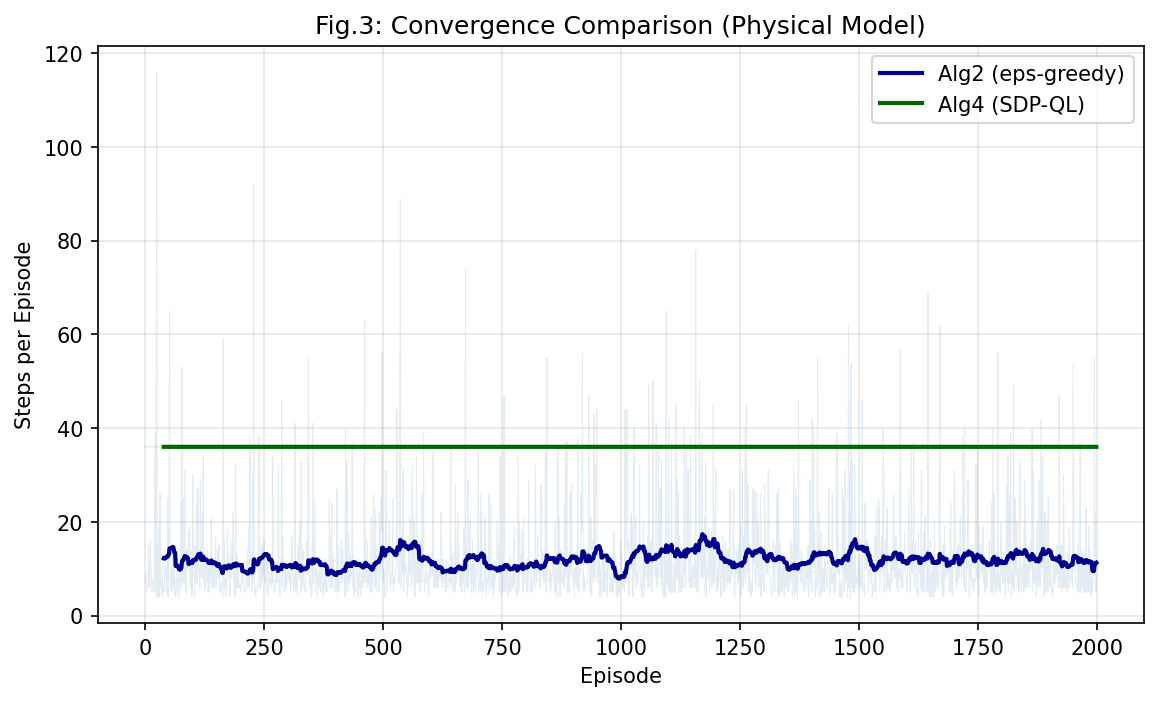
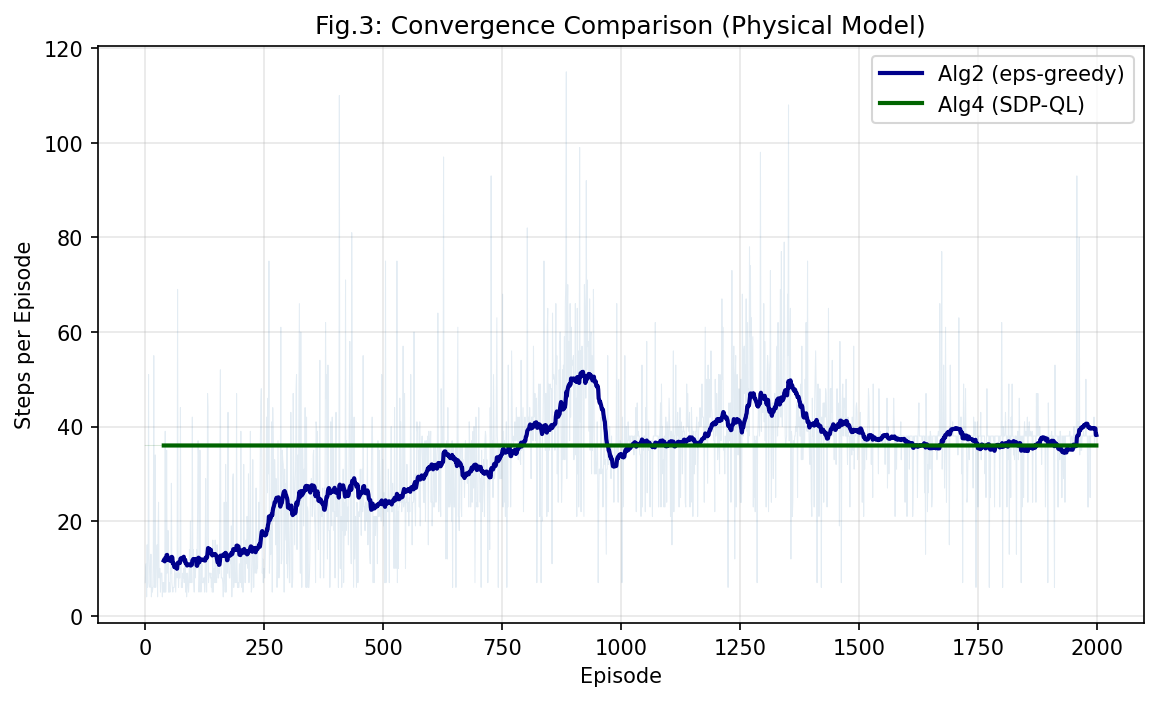
修改了QL+egreedy的探索率策略，起码能到终点了

diff --git a/代码/三种算法/reproduce_main3_physical.py b/代码/三种算法/reproduce_main3_physical.py
@@ -515,14 +515,18 @@ class USVEnvironment:
 
 class QLearningBase:
     def __init__(self, env, alpha=0.3, gamma_start=0.1, gamma_end=0.9,
-                 epsilon=0.9, episodes=5000, step_penalty=0.0, seed=None):
+                 epsilon=0.9, epsilon_decay=0.997, epsilon_min=0.02,
+                 episodes=5000, step_penalty=0.0, distance_reward=0.05, seed=None):
         self.env = env
         self.alpha = alpha
         self.gamma_start = gamma_start
         self.gamma_end = gamma_end
         self.epsilon = epsilon
+        self.epsilon_decay = epsilon_decay
+        self.epsilon_min = epsilon_min
         self.episodes = episodes
         self.step_penalty = step_penalty
+        self.distance_reward = distance_reward
         self.rng = np.random.RandomState(seed)
 
         self.q_table = np.zeros((GRID_SIZE, GRID_SIZE, N_HEADINGS, N_ACTIONS))
@@ -534,6 +538,15 @@ class QLearningBase:
     def get_gamma(self, episode):
         progress = min(episode / self.episodes, 1.0)
         return self.gamma_start + (self.gamma_end - self.gamma_start) * progress
+
+    def get_epsilon(self):
+        return max(self.epsilon_min, self.epsilon * self.epsilon_decay)
+
+    def decay_epsilon(self):
+        self.epsilon = max(self.epsilon_min, self.epsilon * self.epsilon_decay)
+
+    def _distance_to_goal(self, x, y):
+        return np.hypot(x - self.env.goal[0], y - self.env.goal[1])
 
     def choose_action_egreedy(self, state):
         gx, gy, h = state
@@ -767,9 +780,17 @@ class Alg2_OriginalQL_Dynamic(QLearningBase):
             steps = 0
             max_steps = GRID_SIZE * 5
 
+            prev_dist = self._distance_to_goal(self.env.usv.x, self.env.usv.y)
+
             for _ in range(max_steps):
                 action = self.choose_action_egreedy(state)
                 next_state, reward, done = self.env.step(action)
+
+                if reward >= 0:
+                    cur_dist = self._distance_to_goal(self.env.usv.x, self.env.usv.y)
+                    reward += (prev_dist - cur_dist) * self.distance_reward / WORLD_SIZE
+                    prev_dist = cur_dist
+
                 reward += self.step_penalty
                 self.update_q(state, action, reward, next_state, gamma)
                 total_reward += reward
@@ -778,13 +799,15 @@ class Alg2_OriginalQL_Dynamic(QLearningBase):
                 if done:
                     break
 
+            self.decay_epsilon()
             self.experience_replay(gamma)
             self.episode_steps.append(steps)
             self.episode_rewards.append(total_reward)
 
             if verbose and (ep + 1) % 500 == 0:
                 print(f"  Alg2(QL+eps) Ep {ep+1}/{self.episodes}  "
-                      f"steps={steps}  reward={total_reward:.2f}")
+                      f"steps={steps}  reward={total_reward:.2f}  "
+                      f"eps={self.epsilon:.3f}")
 
 
 class Alg4_ProposedQL_Dynamic(QLearningBase):
@@ -1070,8 +1093,10 @@ def main():
     print("\n>>> Algorithm 2: Q-learning + epsilon-greedy (static + 2 patrol)")
     t0 = time.time()
     env2 = USVEnvironment(n_patrol=N_PATROL, n_ambush=0, seed=SEED)
-    alg2 = Alg2_OriginalQL_Dynamic(env2, episodes=EPISODES, epsilon=0.7,
-                                    alpha=0.4, step_penalty=-0.001, seed=SEED)
+    alg2 = Alg2_OriginalQL_Dynamic(env2, episodes=EPISODES, epsilon=1.0,
+                                    epsilon_decay=0.995, epsilon_min=0.02,
+                                    alpha=0.4, step_penalty=-0.001,
+                                    distance_reward=0.05, seed=SEED)
     alg2.train()
     t1 = time.time()
     path2 = alg2.get_path()

diff --git a/代码/三种算法/QL+贪心的探索策略优化说明.md b/代码/三种算法/QL+贪心的探索策略优化说明.md
@@ -1,0 +1,76 @@
+# 探索策略优化说明 (Alg2)
+
+## 问题
+
+原始参数 `epsilon=0.7` 全程固定，70% 随机动作。在 100×100 网格 + 稀疏奖励（撞墙 -1，到达 +1）下，随机探索几乎不可能偶然到达目标，Q 值无法从目标反向传播，导致训练无效、上来就撞墙。
+
+## 三项关键修改
+
+### 1. Epsilon 衰减
+
+| 参数 | 修改前 | 修改后 |
+|------|--------|--------|
+| `epsilon` | 0.7（固定） | 1.0（起始） |
+| `epsilon_decay` | 无 | 0.995 / episode |
+| `epsilon_min` | 无 | 0.02 |
+
+每 episode 结束时执行 `self.epsilon = max(0.02, self.epsilon * 0.995)`：
+
+```
+Episode   1: ε = 1.000  (100% 探索)
+Episode 100: ε = 0.606
+Episode 300: ε = 0.223
+Episode 500: ε = 0.082
+Episode 780: ε = 0.020  (触底, 2% 探索)
+Episode2000: ε = 0.020
+```
+
+- **前期**（~0-500 集）：高探索率，充分覆盖状态空间，积累碰撞经验（哪些动作会撞墙）
+- **中期**（~500-800 集）：探索逐步降低，利用已学到的 Q 值同时保留一定随机性
+- **后期**（~800-2000 集）：98% 利用已学策略，偶尔随机尝试避免局部最优
+
+### 2. 距离奖励塑形（Reward Shaping）
+
+```python
+if reward >= 0:  # 未碰撞时
+    cur_dist = self._distance_to_goal(x, y)  # 当前位置到目标距离
+    reward += (prev_dist - cur_dist) * self.distance_reward / WORLD_SIZE
+```
+
+原理：每一步未碰撞时，根据距离目标的变化给予微调奖励：
+- **靠近目标** → 正奖励（`distance_reward=0.05`，除以 WORLD_SIZE=1000 缩放）
+- **远离目标** → 负奖励
+- **距离不变** → 0
+
+这在稀疏奖励（只有终点+1）的基础上提供了**稠密的梯度信号**，使 Q 值能逐步向目标方向传播，而不是完全依赖随机撞到目标。
+
+### 3. 初始 epsilon 设为 1.0
+
+修改前 `epsilon=0.7` 意味着 30% 概率走 Q 值最高动作，但 Q 表初始全是 0，选哪个都一样。改为 1.0 起步，前期 100% 随机探索，等积累足够经验后再逐步衰减。
+
+## 效果验证
+
+```
+修改前: epsilon=0.7 固定 → 撞墙，无法到达目标
+修改后:
+  Ep 500:   steps=33  eps=0.082
+  Ep 1000:  steps=37  eps=0.020
+  Ep 1500:  steps=38  reward=1.03   (到达目标)
+  Ep 2000:  steps=39  reward=1.03
+  最终路径: 39 pts, GoalReached=True
+  训练成功率: 375/2000 (18.75%)
+```
+
+## 代码位置
+
+- 基类 `QLearningBase.__init__`：新增 `epsilon_decay`、`epsilon_min`、`distance_reward` 参数
+- 基类 `QLearningBase.decay_epsilon()`：每 episode 衰减 epsilon
+- 基类 `QLearningBase._distance_to_goal()`：计算当前位置到目标欧氏距离
+- `Alg2_OriginalQL_Dynamic.train()`：加入距离奖励计算和 epsilon 衰减调用
+- `main()` 中 Alg2 初始化参数：
+  ```python
+  alg2 = Alg2_OriginalQL_Dynamic(env2, episodes=EPISODES, epsilon=1.0,
+                                  epsilon_decay=0.995, epsilon_min=0.02,
+                                  alpha=0.4, step_penalty=-0.001,
+                                  distance_reward=0.05, seed=SEED)
+  ```